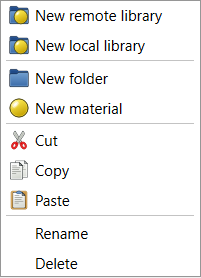
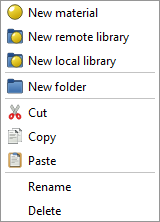
Update after 5 months

Changed region(s): [[0.0, 0.0, 1.0, 1.0], [0.1562, 0.8108, 0.4375, 0.8649], [0.0625, 0.4595, 0.3125, 0.5405]]

diff --git a/FEPs/FEP-0006-materials-editor/README.md b/FEPs/FEP-0006-materials-editor/README.md
@@ -7,7 +7,7 @@
 | Author(s)      | David Carter                                                                                    |
 | Version        | 0.1                                                                                             |
 | Created        | 2025-07-04                                                                                      |
-| Updated        | 2025-07-04                                                                                      |
+| Updated        | 2025-12-18                                                                                      |
 | Discussion     | https://forum.freecad.org/viewtopic.php?t=96071                                                 |
 | Implementation |                                                                                                 |
 
@@ -26,6 +26,12 @@ Enhancements
 - Materials: Material Libraries API needed https://github.com/FreeCAD/FreeCAD/issues/10898
 
 Issues
+- Material: Creating new material triggers 'Save Over' dialogue https://github.com/FreeCAD/FreeCAD/issues/25817
+- Material: Setting small values to a new property results in 0 https://github.com/FreeCAD/FreeCAD/issues/25804
+- Material: Editing and saving over existing custom material in user-created folder results in creating a copy https://github.com/FreeCAD/FreeCAD/issues/25802
+- Material: When Material with no appearance is applied, the appearance is not changed when another material is applied https://github.com/FreeCAD/FreeCAD/issues/25793
+- Material: Order of Appearance properties in the editor https://github.com/FreeCAD/FreeCAD/issues/23219
+- Material: Transparency in object property is displayed 100x the actual value https://github.com/FreeCAD/FreeCAD/issues/21271
 - Materials: Parameter editing in material editor almost impossible https://github.com/FreeCAD/FreeCAD/issues/19996
 - Material: Density unit incorrect https://github.com/FreeCAD/FreeCAD/issues/18870
 - Material: Ability to select incorrect unit https://github.com/FreeCAD/FreeCAD/issues/18272
@@ -52,6 +58,12 @@ The primary goals of the reworked editor include:
 
 ![](./assets/MaterialsEditor.png)
 
+### Scope
+
+This proposal covers only the materials editor. It does not cover all things materials such as implementation within the workbenches, assignments of materials or appearances to paarts, etc. While important those are separate topics warranting separate discussions. There is a lot of room for improvement across the board.
+
+Limiting the scope is essential for producing deliverable results.
+
 ### Libraries
 
 Libraries fall into two basic categories: local and remote.
@@ -71,10 +83,10 @@ The material tree will look similar to that of the current editor, but will be u
 ![](./assets/Toolbar.png)
 
 This is a new feature of the editor replacing the push buttons on the right pain. It includes common operations that can be enabled or disabled with context. From left to right, these actions are:
-- New Library
-- New Folder
 - New Material
 - New Material From Selected
+- New Library
+- New Folder
 - Cut
 - Copy
 - Paste
@@ -115,6 +127,12 @@ Materials and folders can be dragged to new locations within a library, or even 
 Basic search will be a simple substring match on the material folder or name. Selecting advanced search will allow the user to select more parameters for the search. For example, the search can match on property values or material tags depending on what the user selects.
 
 ![](./assets/Search.png)
+
+### Tag Widget
+
+Tags have been a part of the materials specification as part of the original design, but have not been supported in the materials editor due to time constraints. A generic Tags widget will support tag editing and added as a core widget. multiple tags are entered separated by commas, or singly ended when return is entered. They can be edited, or removed when the cross on the tag is selected.
+
+![](./assets/TagWidget.png)
 
 ### External Library Support
 
